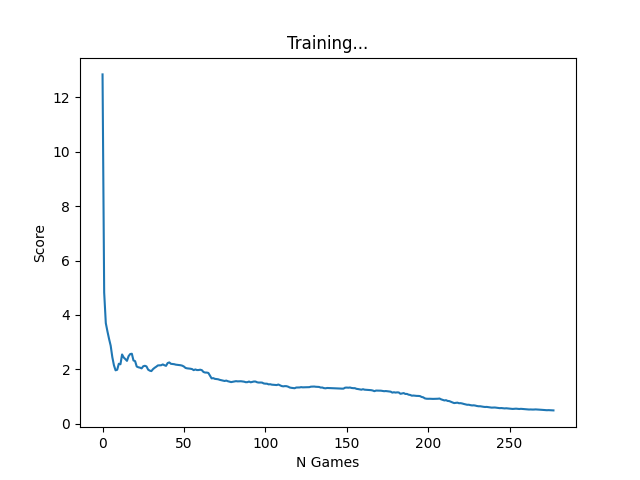
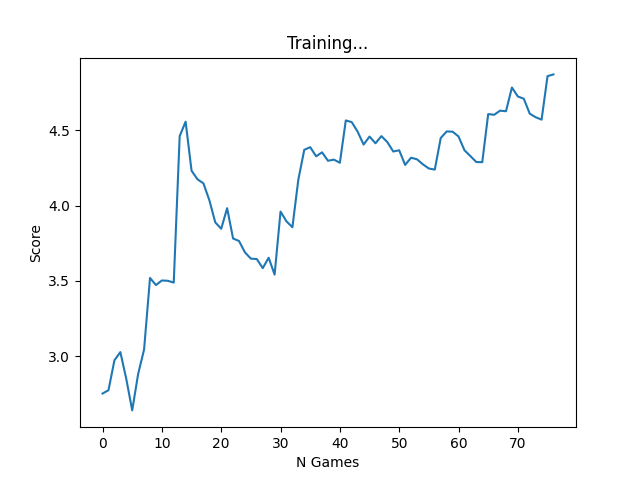
train3 - finally some good numbers

diff --git a/Snake/Snake.py b/Snake/Snake.py
@@ -156,37 +156,65 @@ class Snake:
             for i in range(self.game_width):
                 if((x-i*self.scale,y) in self.coordinates[1:] + self.walls):
                     danger[0] = i
+                    break
 
             for i in range(self.game_hight):
                 if((x,y-i*self.scale) in self.coordinates[1:] + self.walls):
-                    danger[1] = 1
-
-            if((x,y+self.scale) in self.coordinates[1:] + self.walls):
-                danger[2] = 1
+                    danger[1] = i
+                    break
+            for i in range(self.game_hight):
+                if((x,y+i*self.scale) in self.coordinates[1:] + self.walls):
+                    danger[2] = i
+                    break
 
         elif(self.direction == "right"):
-            if((x+self.scale,y) in self.coordinates[1:] + self.walls):
-                danger[0] = 1
-            if((x,y+self.scale) in self.coordinates[1:] + self.walls):
-                danger[1] = 1
-            if((x,y-self.scale) in self.coordinates[1:] + self.walls):
-                danger[2] = 1
+            for i in range(self.game_width):
+                if((x+i*self.scale,y) in self.coordinates[1:] + self.walls):
+                    danger[0] = i
+                    break
+
+            for i in range(self.game_hight):
+                if((x,y+i*self.scale) in self.coordinates[1:] + self.walls):
+                    danger[1] = i
+                    break
+
+            for i in range(self.game_hight):
+                if((x,y-i*self.scale) in self.coordinates[1:] + self.walls):
+                    danger[2] = i
+                    break
 
         elif(self.direction == "up"):
-            if((x,y-self.scale) in self.coordinates[1:] + self.walls):
-                danger[0] = 1
-            if((x+self.scale,y) in self.coordinates[1:] + self.walls):
-                danger[1] = 1
-            if((x-self.scale,y) in self.coordinates[1:] + self.walls):
-                danger[2] = 1
+            for i in range(self.game_hight):
+                if((x,y-i*self.scale) in self.coordinates[1:] + self.walls):
+                    danger[0] = i
+                    break
+
+            for i in range(self.game_width):
+                if((x+i*self.scale,y) in self.coordinates[1:] + self.walls):
+                    danger[1] = i
+                    break
+
+            for i in range(self.game_width):
+                if((x-i*self.scale,y) in self.coordinates[1:] + self.walls):
+                    danger[2] = i
 
         elif(self.direction == "down"):
-            if((x,y+self.scale) in self.coordinates[1:] + self.walls):
-                danger[0] = 1
-            if((x-self.scale,y) in self.coordinates[1:] + self.walls):
-                danger[1] = 1
-            if((x+self.scale,y) in self.coordinates[1:] + self.walls):
-                danger[2] = 1
+            for i in range(self.game_hight):
+                if((x,y+i*self.scale) in self.coordinates[1:] + self.walls):
+                    danger[0] = i
+                    break
+
+            for i in range(self.game_hight):
+                if((x-i*self.scale,y) in self.coordinates[1:] + self.walls):
+                    danger[1] = i
+                    break
+
+            for i in range(self.game_hight):
+                if((x+i*self.scale,y) in self.coordinates[1:] + self.walls):
+                    danger[2] = i
+                    break
+        for i in range(len(danger)):
+            danger[i] = danger[i]/GameConfig.Game_Hight
 
         return danger
 

diff --git a/AI/AIGameController/AIGameController.py b/AI/AIGameController/AIGameController.py
@@ -62,15 +62,17 @@ class AIGameController:
             reward = AIConfig.punish
             return reward, True, self.score
 
-        elif(len(self.snake.coordinates) * AIConfig.max_step_coef < self.frame_iteration ):
-            self.score += AIConfig.punish
-            reward = AIConfig.punish
+        elif((len(self.snake.coordinates)/1.7)**2 * (AIConfig.max_step_per_length) < self.frame_iteration ):
+            #self.score += AIConfig.punish
+            reward = AIConfig.long_stay_punish
             return reward, True, self.score
 
         else:
-            #self.score += self.negative_step
-            reward = self.negative_step
-            reward = 0
+            [dist1, dist2] = self.get_food_distance()
+            dist1 = abs(dist1-0.5)
+            dist2 = abs(dist2-0.5)
+            reward= 0.5/(dist1 + dist2)
+
 
             return reward, False, self.score
 
@@ -79,7 +81,7 @@ class AIGameController:
         state = []
         state += self.snake.detect_danger()
         #state += self.snake.get_direction()
-        state += self.get_food_direction()
+        #state += self.get_food_direction()
         state += self.get_food_distance()
         #state += self.get_frame_iteration()
         return state
@@ -92,7 +94,8 @@ class AIGameController:
 
     def get_food_distance(self):
 
-        dis = abs(self.snake.coordinates[0][0] - self.food.coordinate[0])/self.scale + abs(self.snake.coordinates[0][1] - self.food.coordinate[1])/self.scale
+        dis1 = ((((self.snake.coordinates[0][0] - self.food.coordinate[0])/self.scale)/GameConfig.Game_Width)/2)+0.5
+        dis2 = ((((self.snake.coordinates[0][1] - self.food.coordinate[1])/self.scale)/GameConfig.Game_Hight)/2)+0.5
         """
         dis_list = [0, 0, 0, 0]
         dis = int(dis)
@@ -105,7 +108,7 @@ class AIGameController:
         dis_list[3] = dis % 2
         """
 
-        dis_list=[int(dis)]
+        dis_list=[dis1,dis2]
         return dis_list
 
 

diff --git a/Agent.py b/Agent.py
@@ -22,10 +22,12 @@ class Agent:
         self.trainer = QTrainer(self.model, AIConfig.LR, AIConfig.gamma, )
 
     def get_action(self,state):
-        p = random.random() * math.exp(-self.n_game*(AIConfig.epsilon_decay))
+        p = random.random()
+        rnd_move_prob = math.exp(-self.n_game*(AIConfig.epsilon_decay)) * AIConfig.random_move_prob + 0.005
         #print(math.exp(-self.n_game*(AIConfig.epsilon_decay)))
+        #p = random.random()
         final_move = [0,0,0]
-        if(p > (1-AIConfig.random_move_prob)):
+        if(p < rnd_move_prob):
             move = random.randint(0,2)
             final_move[move] = 1
 
@@ -36,7 +38,7 @@ class Agent:
             final_move[move] = 1
 
 
-        return final_move
+        return final_move, rnd_move_prob
 
     def remember(self, state, action, reward, next_state, done):
         self.memory.append((state, action, reward, next_state, done))
@@ -71,7 +73,7 @@ def train():
 
         old_state = game_controller.get_state()
 
-        final_move = agent.get_action(old_state)
+        final_move, p = agent.get_action(old_state)
 
         reward, isEnd, score = game_controller.move_one_step(final_move)
 
@@ -82,6 +84,7 @@ def train():
         agent.remember(old_state, final_move, new_state, reward, isEnd)
 
         if isEnd:
+
             loss_mean.append(np.mean(loss_list))
             #print(len(game_controller.snake.coordinates))
             game_controller.reset()
@@ -94,7 +97,7 @@ def train():
                 record = score
                 agent.model.save()
             
-            print("Game: ", agent.n_game, "score: " , score , "Record: " ,record )
+            print("Game: ", agent.n_game, "score: " , score , "Record: " ,record, "p: " , p )
             plot_score.append(score)
             total_score += score
             mean_score = total_score / agent.n_game

diff --git a/AI/model/model.py b/AI/model/model.py
@@ -8,13 +8,13 @@ class Linear_QNet(nn.Module):
     def __init__(self, input_size, hidden1_size, hidden2_size  , output_size):
         super().__init__()
         self.Linear1 = nn.Linear(input_size, hidden1_size)
-        #self.Linear2 = nn.Linear(hidden1_size, hidden2_size)
-        self.Linear3 = nn.Linear(hidden1_size, output_size)
+        self.Linear2 = nn.Linear(hidden1_size, output_size)
+        #self.Linear3 = nn.Linear(hidden1_size, output_size)
 
     def forward(self, x):
         x = F.relu(self.Linear1(x))
         #x = F.relu(self.Linear2(x))
-        x = self.Linear3(x)
+        x = self.Linear2(x)
         return x
 
     def save(self,file_name="model.pth" ):

diff --git a/Config/AIConfig.py b/Config/AIConfig.py
@@ -1,17 +1,19 @@
-gamma = 0.9
+gamma = 0.8
 epsilon = 200
-random_move_prob = 0.65
-epsilon_decay = 0.005
-LR = 0.01
-Max_Memory = 100_000
-batch_size = 100
-reward = 10
-punish = -10
-input_size = 8
+random_move_prob = 0.9
+epsilon_decay = 0.002
+LR = 1e-4
+Max_Memory = 100
+batch_size = 10
+reward = 15
+punish = -5
+long_stay_punish = -0.2
+input_size = 5
 hidden1_size = 256
 hidden2_size = 128
 output_size = 3
-negative_step = -0.005
-negative_step_growth = -0.0001
-max_step_coef = 100
+negative_step = 0
+negative_step_growth = 0
+max_step_per_length = 10
+
 
